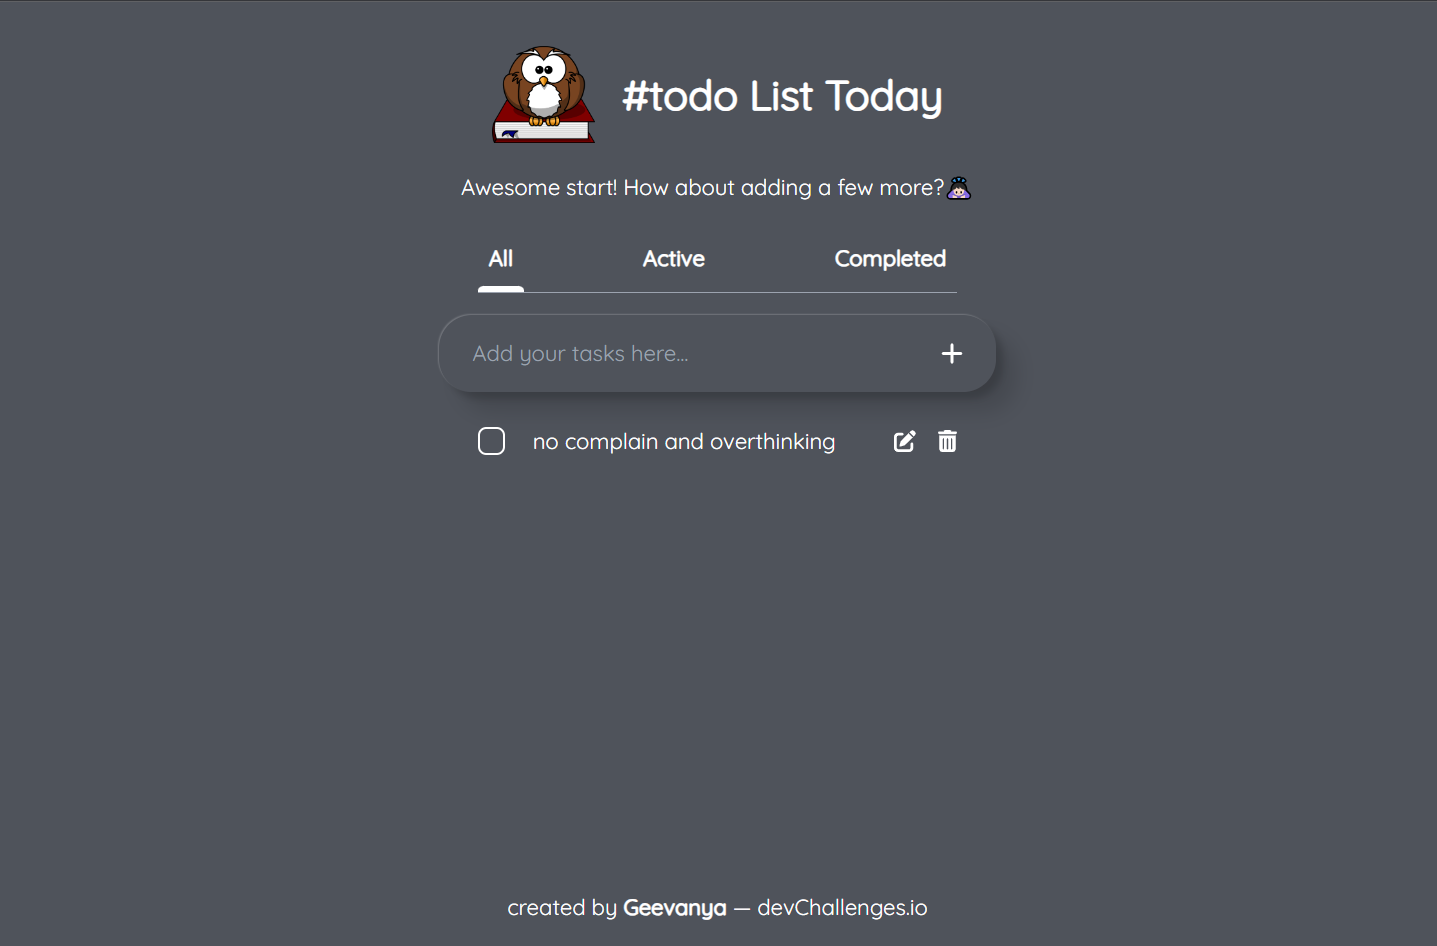
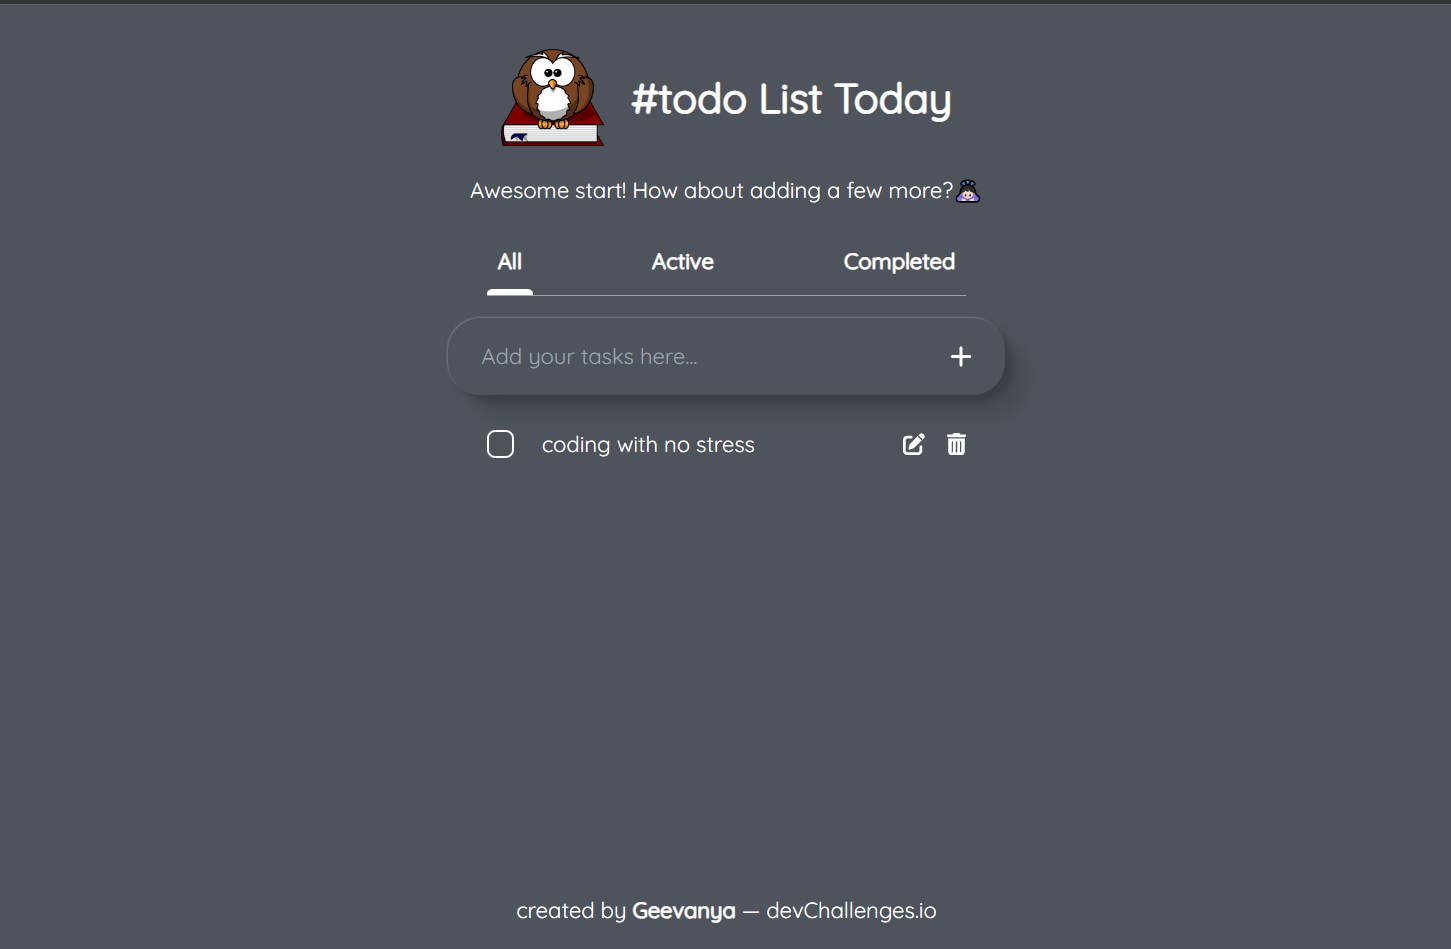
change assets and readme

diff --git a/README.md b/README.md
@@ -38,14 +38,13 @@
 
 ![screenshot](/src/assets/overview-todo.png)
 
-Challenge: Create a small version of Airbnb - Windbnb with given data. Use Front-end libraries like React or Vue. Don’t look at the existing solution. Fulfill user stories below:
+Challenge: Create a todo app following given designs. Use Front-end libraries like React or Vue. Don’t look at the existing solution. Fulfill user stories below:
 
-User story: I can see a list of properties
-User story: I can see the property card with a name, rating, apartment type, and super host
-User story: I can open the filter drawer
-User story: I can filter properties by location and number of guests
-User story: I can see the number of filtered items
-User story: I can see pages following given designs
+User story: I can add a new task
+User story: I can complete a task
+User story: I can toggle between All, Active and Completed
+User story: I can remove one or all tasks under the Completed tab
+User story (optional): Store the data in local storage that when I refresh the page I can still see my progress
 
 ### Built With
 
